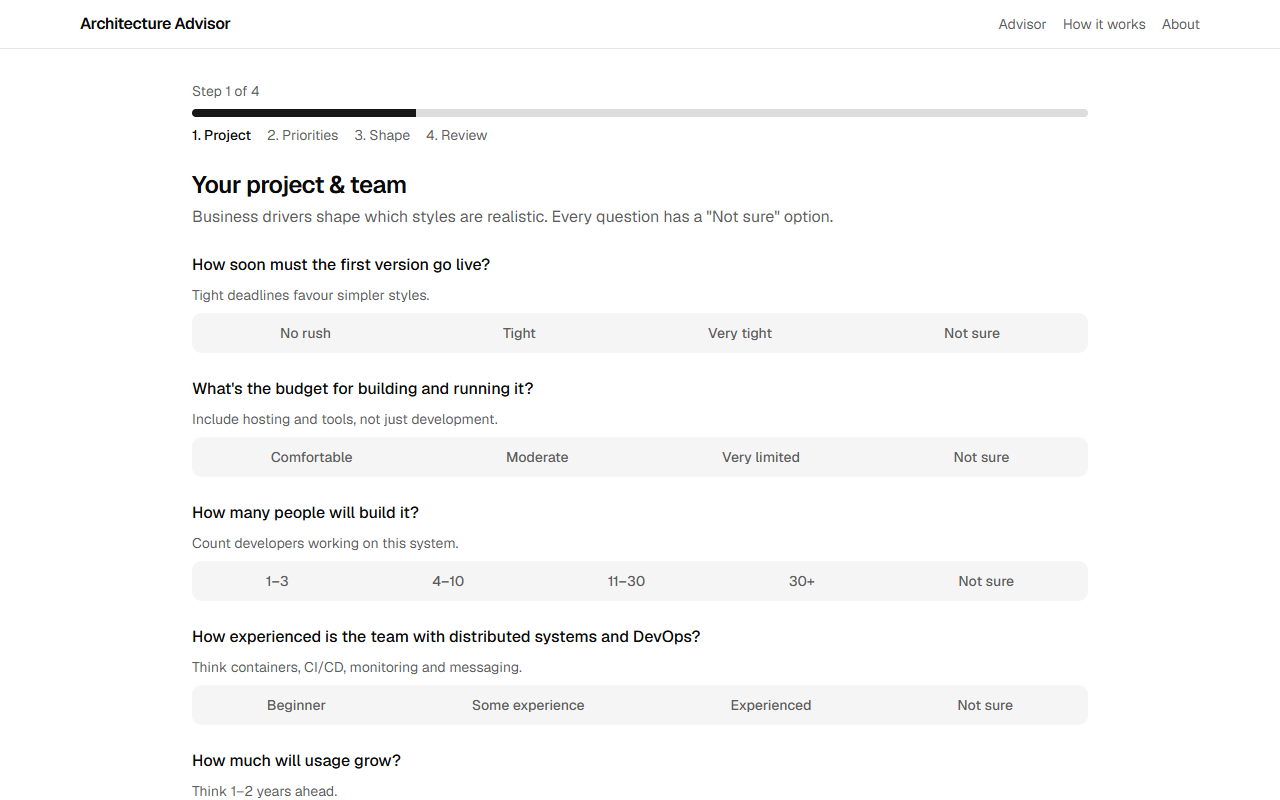
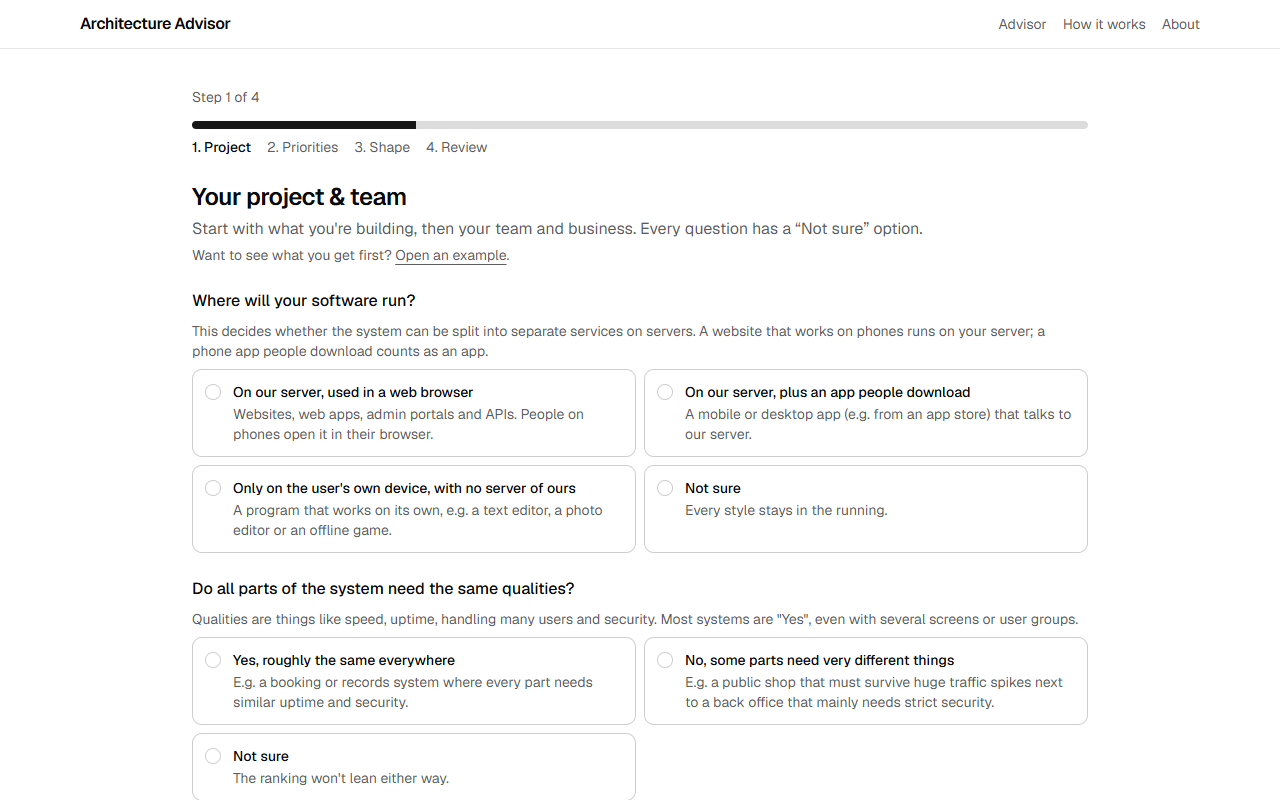
Docs: v1.2 live check on production, README screenshots retaken

diff --git a/docs/UI_UX.md b/docs/UI_UX.md
@@ -145,6 +145,7 @@ The owner found the flow confusing (examples first, no way to start fresh on `/a
 - **Radio cards:** a KB driver option may carry a `description`; a question whose options have one is drawn as cards (`RadioCard` in `components/ui/radio-group.tsx`) instead of the segmented control. The label is the accessible name and the example the accessible description. The chosen card gets a primary border and inset ring (an inset ring, so the keyboard focus ring still shows).
 - **Contradiction warning:** "only on the user's device" + "parts need very different things" shows rule warning N5 on the result (KNOWLEDGE_BASE_DRAFT §7), in the same warning box as N3.
 - **Bundle:** `/advisor` 189.7 KB gz (was 187.5).
+- **Live check (2026-10-21, Edge via Playwright, AI call blocked so no quota was used):** the production site reports KB 1.2.0. The hospital share link with "server" + "parts differ" shows Service-based architecture, Good fit 61.4, Serverless #2 at 55.3, and the hybrid note N1. With "installed" + "parts differ" it shows Modular monolith, Weak fit 42.4, the seven server styles ruled out, and the N5 box "Worth a second look". Both match golden G23/G24. README screenshots (`docs/screenshots/`) retaken from the live site with `node scripts/screenshots.mjs`; the result shot shows a Gemini explanation.
 
 ## Copy tone
 Short, friendly, second person. Explain terms once: e.g. "Elasticity: scaling up *and back down* quickly when traffic spikes." No hype words ("revolutionary", "AI-powered magic").

diff --git a/docs/HANDOFF.md b/docs/HANDOFF.md
@@ -26,7 +26,7 @@ Last updated 2026-10-21. Read `CLAUDE.md` first (note the **commit identity rule
 | Phase 6 polish (sessions 4–5) | AI-changed-order banner, `/privacy`, a11y pass, README + ADRs, shareable "Copy link" |
 | **Launch (session 6)** | Vercel deploy, live smoke test, Lighthouse on production, README screenshots (`scripts/screenshots.mjs` → `docs/screenshots/`), tag `v1.0.0`. Details: UI_UX "As built (launch)" |
 | **v1.1 (session 7)** | KB 1.1.0 (R20–R23, two new step-1 questions), `plainReasons`, prompt v2, new flow. Details: KNOWLEDGE_BASE_DRAFT §8, UI_UX "As built (v1.1)" |
-| **v1.2 (session 8)** | KB 1.2.0 (R23 for any small team, N5 warning, R22/N1 skipped on contradiction), radio cards for step-1 questions with examples. Details: KNOWLEDGE_BASE_DRAFT §8 "KB 1.2.0", UI_UX "As built (v1.2)" |
+| **v1.2 (session 8)** | KB 1.2.0 (R23 for any small team, N5 warning, R22/N1 skipped on contradiction), radio cards for step-1 questions with examples. Details: KNOWLEDGE_BASE_DRAFT §8 "KB 1.2.0", UI_UX "As built (v1.2)". Live check passed on production and README screenshots retaken (PR #11) |
 | Tests | 242 Vitest tests in `npm run check` (24 golden scenarios); no test calls a real provider. Optional Playwright: 24 tests |
 
 ## Waiting on the owner
